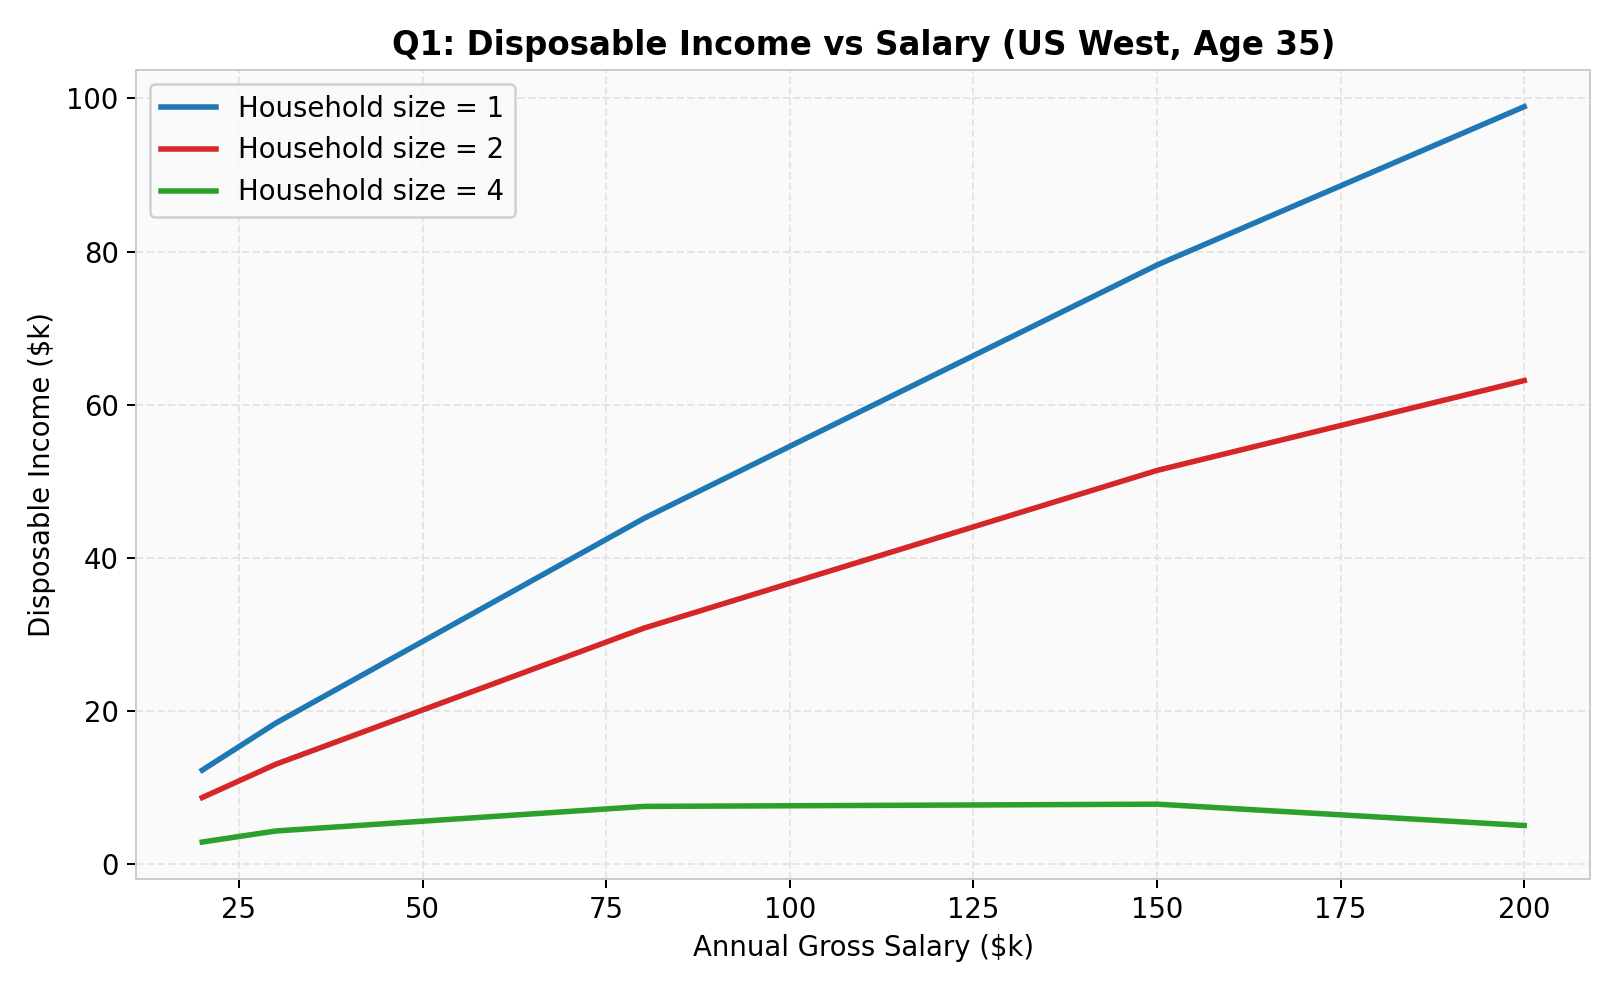
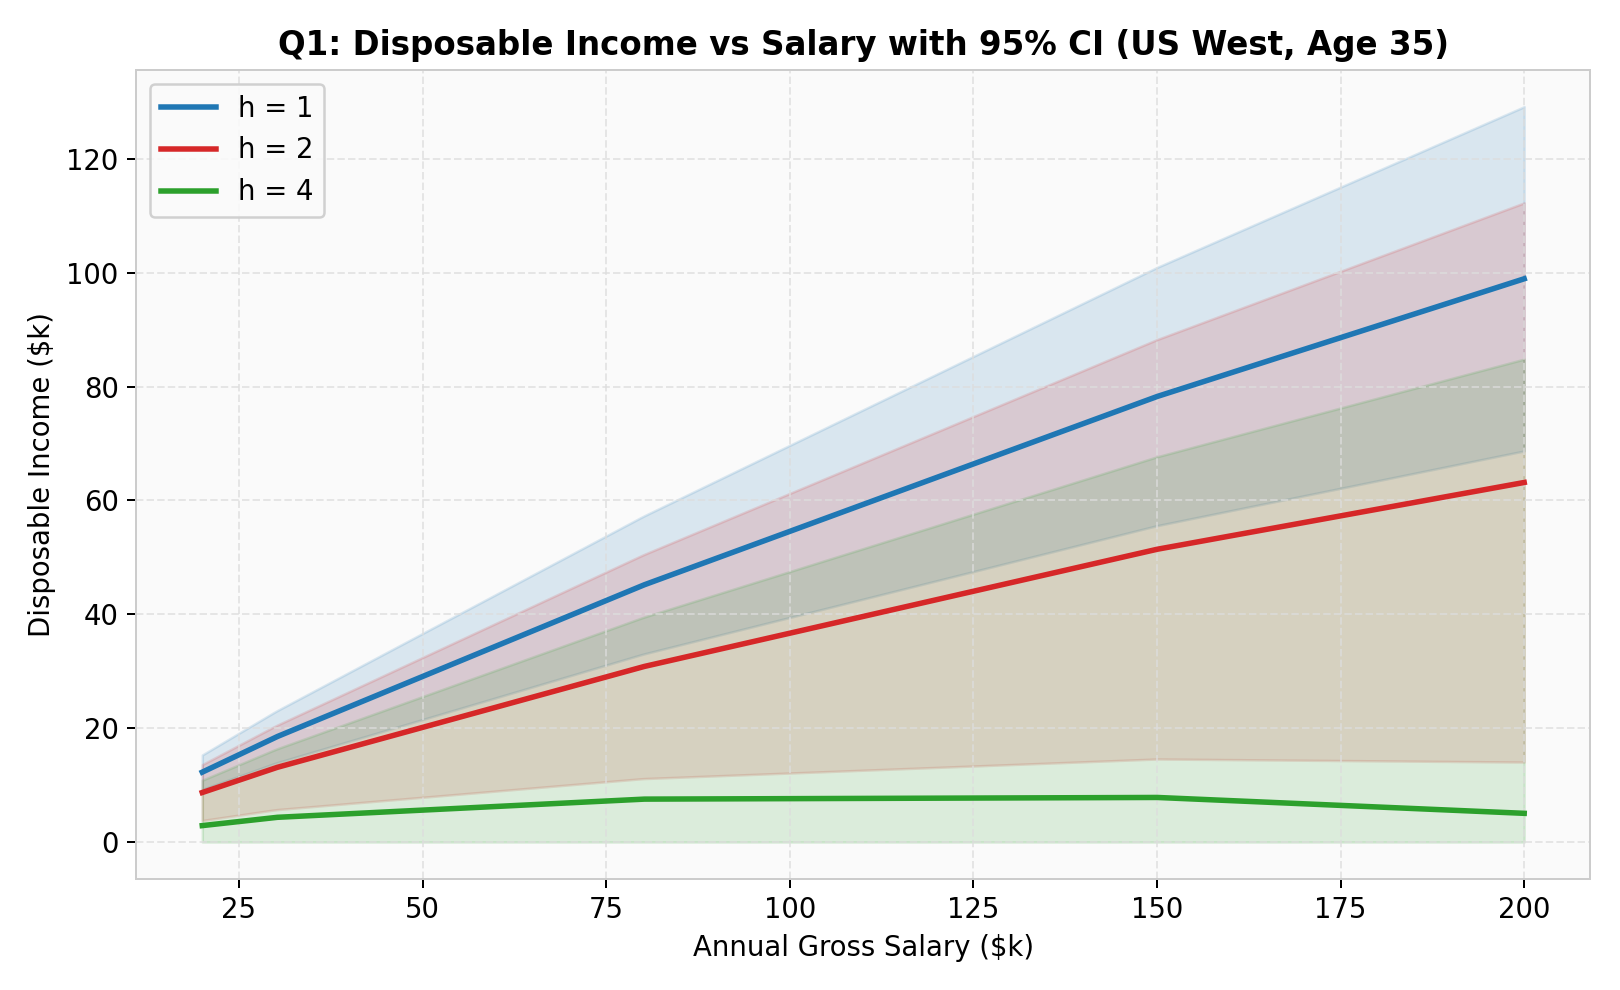
stuff added

diff --git a/generate_figures.py b/generate_figures.py
@@ -135,6 +135,16 @@ def gamblingOutcome(p):
     edge = baseEdge * chaseMult
     return -edge*G, DI
 
+def DI_CI(S, age, h, country, region):
+    """Return (DI, DI_lo, DI_hi) with 95% CI from parameter uncertainty."""
+    DI, Y, E = DI_full(S, age, h, country, region)
+    cv_E = math.sqrt(0.20**2 + 0.10**2 + 0.15**2)  # ~0.269
+    E_lo = max(E * (1 - 1.96 * cv_E), 0)
+    E_hi = min(E * (1 + 1.96 * cv_E), Y)
+    DI_hi = max(Y - E_lo, 0)
+    DI_lo = max(Y - E_hi, 0)
+    return DI, DI_lo, DI_hi
+
 def impactRate(R_in, L, k, Rmid):
     R_in = np.asarray(R_in, dtype=float)
     return L / (1 + np.exp(-k * (R_in - Rmid)))
@@ -198,27 +208,77 @@ print(f"  High-risk (R>=15%): {100*np.sum(Rv>=0.15)/len(Rv):.1f}%")
 fignum = 0
 
 # ================================================================
-# FIGURE 1 — Q1: DI vs Salary for different household sizes
+# FIGURE 1 — Q1: DI vs Salary with 95% CI bands
 # ================================================================
 fignum += 1
-print(f"Figure {fignum}: Q1 — DI vs Salary ...")
+print(f"Figure {fignum}: Q1 — DI vs Salary with 95% CI ...")
 fig, ax = plt.subplots(figsize=(9, 5.5))
 salaries = np.linspace(20000, 200000, 300)
 hh_sizes = [1, 2, 4]
 colors_q1 = ['#1f77b4', '#d62728', '#2ca02c']
 
 for j, h in enumerate(hh_sizes):
-    di_vec = np.array([DI_full(s, 35, h, 'US', 'West')[0] for s in salaries])
-    ax.plot(salaries/1000, di_vec/1000, color=colors_q1[j], linewidth=2.2,
-            label=f'Household size = {h}')
+    di_mid = np.zeros(len(salaries))
+    di_lo  = np.zeros(len(salaries))
+    di_hi  = np.zeros(len(salaries))
+    for k, s in enumerate(salaries):
+        di_mid[k], di_lo[k], di_hi[k] = DI_CI(s, 35, h, 'US', 'West')
+
+    ax.fill_between(salaries/1000, di_lo/1000, di_hi/1000,
+                    color=colors_q1[j], alpha=0.15)
+    ax.plot(salaries/1000, di_mid/1000, color=colors_q1[j], linewidth=2.2,
+            label=f'h = {h}')
 
 ax.set_xlabel('Annual Gross Salary ($k)')
 ax.set_ylabel('Disposable Income ($k)')
-ax.set_title('Q1: Disposable Income vs Salary (US West, Age 35)')
+ax.set_title('Q1: Disposable Income vs Salary with 95% CI (US West, Age 35)')
 ax.legend(framealpha=0.9)
 ax.grid(True)
 fig.tight_layout()
 fig.savefig(os.path.join(OUT, 'Q1_DI_vs_Salary.png'), dpi=DPI)
+plt.close(fig)
+
+# ================================================================
+# FIGURE 1b — Q1: CI width across salary range (standalone)
+# ================================================================
+fignum += 1
+print(f"Figure {fignum}: Q1 — CI Width by Salary ...")
+fig, (ax1, ax2) = plt.subplots(1, 2, figsize=(13, 5.5))
+
+# Left: CI for US regions at h=2
+us_regions_ci = ['Northeast', 'Midwest', 'South', 'West']
+reg_colors = ['#1f77b4', '#ff7f0e', '#2ca02c', '#d62728']
+for j, reg in enumerate(us_regions_ci):
+    mid = np.array([DI_CI(s, 35, 2, 'US', reg)[0] for s in salaries])
+    lo  = np.array([DI_CI(s, 35, 2, 'US', reg)[1] for s in salaries])
+    hi  = np.array([DI_CI(s, 35, 2, 'US', reg)[2] for s in salaries])
+    ax1.fill_between(salaries/1000, lo/1000, hi/1000, color=reg_colors[j], alpha=0.12)
+    ax1.plot(salaries/1000, mid/1000, color=reg_colors[j], linewidth=2, label=reg)
+
+ax1.set_xlabel('Annual Gross Salary ($k)')
+ax1.set_ylabel('Disposable Income ($k)')
+ax1.set_title('Q1: DI with 95% CI by US Region (h=2, age 35)')
+ax1.legend(framealpha=0.9)
+ax1.grid(True)
+
+# Right: CI for UK regions at h=2
+uk_regions_ci = ['England', 'Wales', 'Scotland', 'Northern Ireland']
+uk_colors = ['#9467bd', '#8c564b', '#e377c2', '#7f7f7f']
+for j, reg in enumerate(uk_regions_ci):
+    mid = np.array([DI_CI(s, 35, 2, 'UK', reg)[0] for s in salaries])
+    lo  = np.array([DI_CI(s, 35, 2, 'UK', reg)[1] for s in salaries])
+    hi  = np.array([DI_CI(s, 35, 2, 'UK', reg)[2] for s in salaries])
+    ax2.fill_between(salaries/1000, lo/1000, hi/1000, color=uk_colors[j], alpha=0.12)
+    ax2.plot(salaries/1000, mid/1000, color=uk_colors[j], linewidth=2, label=reg)
+
+ax2.set_xlabel('Annual Gross Salary ($k)')
+ax2.set_ylabel('Disposable Income ($k)')
+ax2.set_title('Q1: DI with 95% CI by UK Region (h=2, age 35)')
+ax2.legend(framealpha=0.9)
+ax2.grid(True)
+
+fig.tight_layout()
+fig.savefig(os.path.join(OUT, 'Q1_DI_CI_by_Region.png'), dpi=DPI)
 plt.close(fig)
 
 # ================================================================

diff --git a/main_Q1_demo.m b/main_Q1_demo.m
@@ -1,5 +1,5 @@
 function main_Q1_demo(usData, ukData)
-%MAIN_Q1_DEMO Demonstrate Q1 disposable income model with examples and a plot.
+%MAIN_Q1_DEMO Demonstrate Q1 disposable income model with 95% CI.
 
     % ---- Example individuals ----
     examples = {
@@ -8,10 +8,10 @@ function main_Q1_demo(usData, ukData)
         'UK', 'England', 35,  60000, 2;
     };
 
-    fprintf('\n===== Q1: Disposable Income Model =====\n');
-    fprintf('%-8s %-12s %5s %10s %10s %10s %10s\n', ...
-        'Country','Region','Age','Salary','Y','E','DI');
-    fprintf('%s\n', repmat('-', 1, 70));
+    fprintf('\n===== Q1: Disposable Income Model (with 95%% CI) =====\n');
+    fprintf('%-8s %-12s %5s %10s %10s %10s %14s\n', ...
+        'Country','Region','Age','Salary','Y','DI','95% CI');
+    fprintf('%s\n', repmat('-', 1, 75));
 
     for i = 1:size(examples, 1)
         c   = examples{i,1};
@@ -20,34 +20,43 @@ function main_Q1_demo(usData, ukData)
         sal = examples{i,4};
         hh  = examples{i,5};
 
-        [DI, Y, E] = disposableIncome(sal, a, hh, c, r, usData, ukData);
-        fprintf('%-8s %-12s %5d %10.0f %10.0f %10.0f %10.0f\n', ...
-            c, r, a, sal, Y, E, DI);
+        [DI, DI_lo, DI_hi, Y, ~] = disposableIncome_CI(sal, a, hh, c, r, usData, ukData);
+        fprintf('%-8s %-12s %5d %10.0f %10.0f %10.0f  [%6.0f, %6.0f]\n', ...
+            c, r, a, sal, Y, DI, DI_lo, DI_hi);
     end
 
-    % ---- Line chart: DI vs salary for different household sizes ----
+    % ---- Line chart: DI vs salary with 95% CI shading ----
     salaries = linspace(20000, 200000, 200);
     hhSizes  = [1, 2, 4];
     fixedAge = 35;
     fixedCountry = 'US';
     fixedRegion  = 'West';
 
-    figure('Name', 'Q1: Disposable Income vs Salary');
+    figure('Name', 'Q1: Disposable Income vs Salary (with 95% CI)');
     hold on;
-    colors = {'b', 'r', 'k'};
+    colors = [0.12 0.47 0.71;  0.84 0.15 0.16;  0.17 0.63 0.17];
+
     for j = 1:numel(hhSizes)
-        diVec = zeros(size(salaries));
+        diVec   = zeros(size(salaries));
+        diLo    = zeros(size(salaries));
+        diHi    = zeros(size(salaries));
         for k = 1:numel(salaries)
-            diVec(k) = disposableIncome(salaries(k), fixedAge, hhSizes(j), ...
+            [diVec(k), diLo(k), diHi(k)] = disposableIncome_CI( ...
+                salaries(k), fixedAge, hhSizes(j), ...
                 fixedCountry, fixedRegion, usData, ukData);
         end
-        plot(salaries/1000, diVec/1000, colors{j}, 'LineWidth', 1.5, ...
-            'DisplayName', sprintf('h = %d', hhSizes(j)));
+
+        fill([salaries/1000, fliplr(salaries/1000)], ...
+             [diHi/1000, fliplr(diLo/1000)], ...
+             colors(j,:), 'FaceAlpha', 0.15, 'EdgeColor', 'none', ...
+             'HandleVisibility', 'off');
+        plot(salaries/1000, diVec/1000, 'Color', colors(j,:), ...
+            'LineWidth', 2, 'DisplayName', sprintf('h = %d', hhSizes(j)));
     end
     hold off;
     xlabel('Annual Gross Salary ($k)');
     ylabel('Disposable Income ($k)');
-    title(sprintf('Q1: DI vs Salary (US West, age %d)', fixedAge));
+    title(sprintf('Q1: DI vs Salary with 95%% CI (US West, age %d)', fixedAge));
     legend('Location', 'northwest');
     grid on;
 

diff --git a/disposableIncome_CI.m b/disposableIncome_CI.m
@@ -1,0 +1,31 @@
+function [DI, DI_lo, DI_hi, Y, E] = disposableIncome_CI(S, age, h, country, region, usData, ukData)
+%DISPOSABLEINCOME_CI  Disposable income with 95% confidence interval.
+%
+%   [DI, DI_lo, DI_hi, Y, E] = disposableIncome_CI(S, age, h, country,
+%       region, usData, ukData)
+%
+%   Propagates uncertainty in three model parameters:
+%     theta  (essential share)    — CV = 0.20  (individual spending varies)
+%     f_r    (region multiplier)  — CV = 0.10  (regional cost-of-living)
+%     gamma  (household exponent) — sigma = 0.10 around 0.70
+%
+%   E = theta * S * f_r * f_h   =>   DI = Y - E
+%   The CI comes from the combined relative uncertainty in E.
+
+    [DI, Y, E] = disposableIncome(S, age, h, country, region, usData, ukData);
+
+    cv_theta = 0.20;
+    cv_fr    = 0.10;
+    cv_fh    = 0.15;
+
+    cv_E = sqrt(cv_theta^2 + cv_fr^2 + cv_fh^2);
+
+    E_lo = E * (1 - 1.96 * cv_E);
+    E_hi = E * (1 + 1.96 * cv_E);
+
+    E_lo = max(E_lo, 0);
+    E_hi = min(E_hi, Y);
+
+    DI_hi = max(Y - E_lo, 0);
+    DI_lo = max(Y - E_hi, 0);
+end
